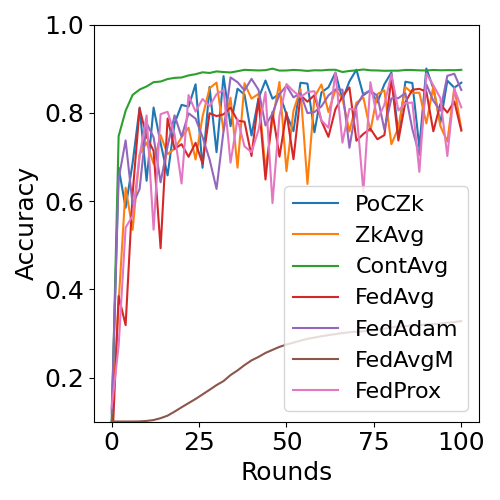
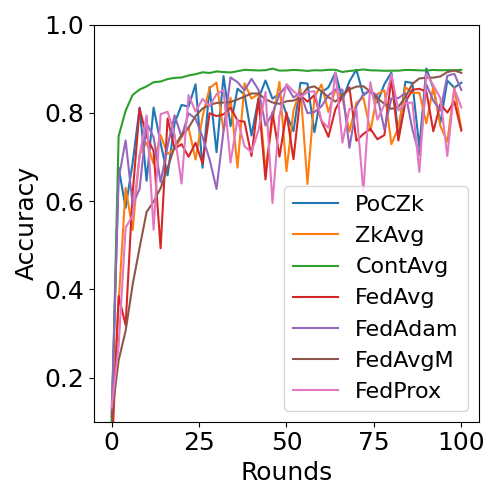
fixed experiments on FedAvgM

diff --git a/main.py b/main.py
@@ -63,9 +63,9 @@ def add_parser_arguments(parser : argparse.ArgumentParser):
 def run_simulations(args):
     """Run simulation for each strategy."""
     strategies = args.strategies
-    # for strategy in strategies:
-    #     cleanup_proofs()
-    #     run_simulation(args, strategy)
+    for strategy in strategies:
+        cleanup_proofs()
+        run_simulation(args, strategy)
 
 def run_simulation(args, strategy):
 
@@ -139,17 +139,17 @@ def save_training_rounds(strategies, config):
     dishonest = "dishonest" if config["dishonest"] else "honest"
     results_path = Path(config["save_path"]) / Path("simulation") / Path(dataset) / Path(dishonest) 
 
-    # training_rounds_paths = save_target_accuracy_to_csv(
-    #     save_csv_path=results_path,
-    #     config=config,
-    #     strategies=strategies
-    # )
-
-    training_rounds_paths = save_max_accuracy_to_csv(
+    training_rounds_paths = save_target_accuracy_to_csv(
         save_csv_path=results_path,
         config=config,
         strategies=strategies
     )
+
+    # training_rounds_paths = save_max_accuracy_to_csv(
+    #     save_csv_path=results_path,
+    #     config=config,
+    #     strategies=strategies
+    # )
 
     return training_rounds_paths
     
